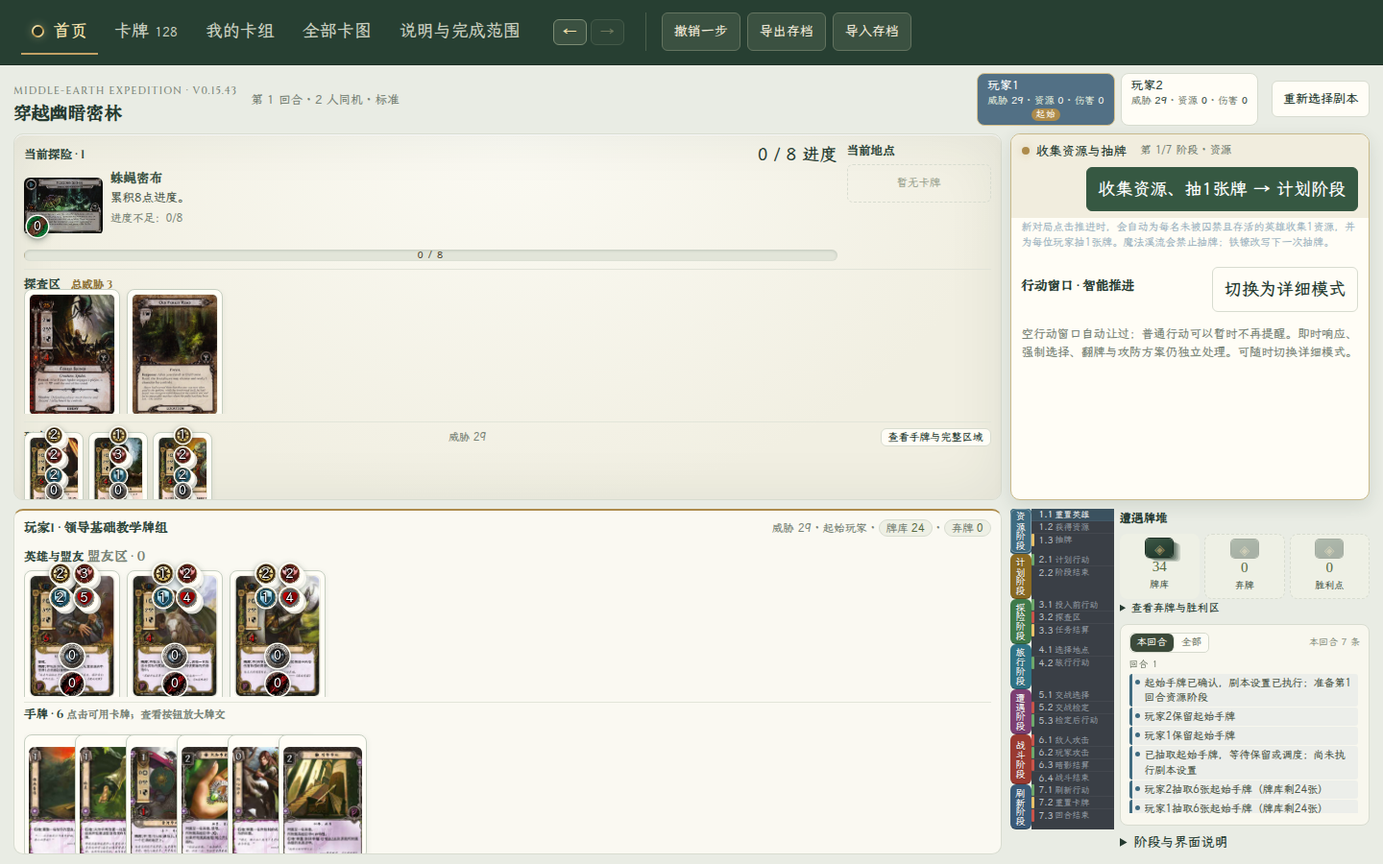
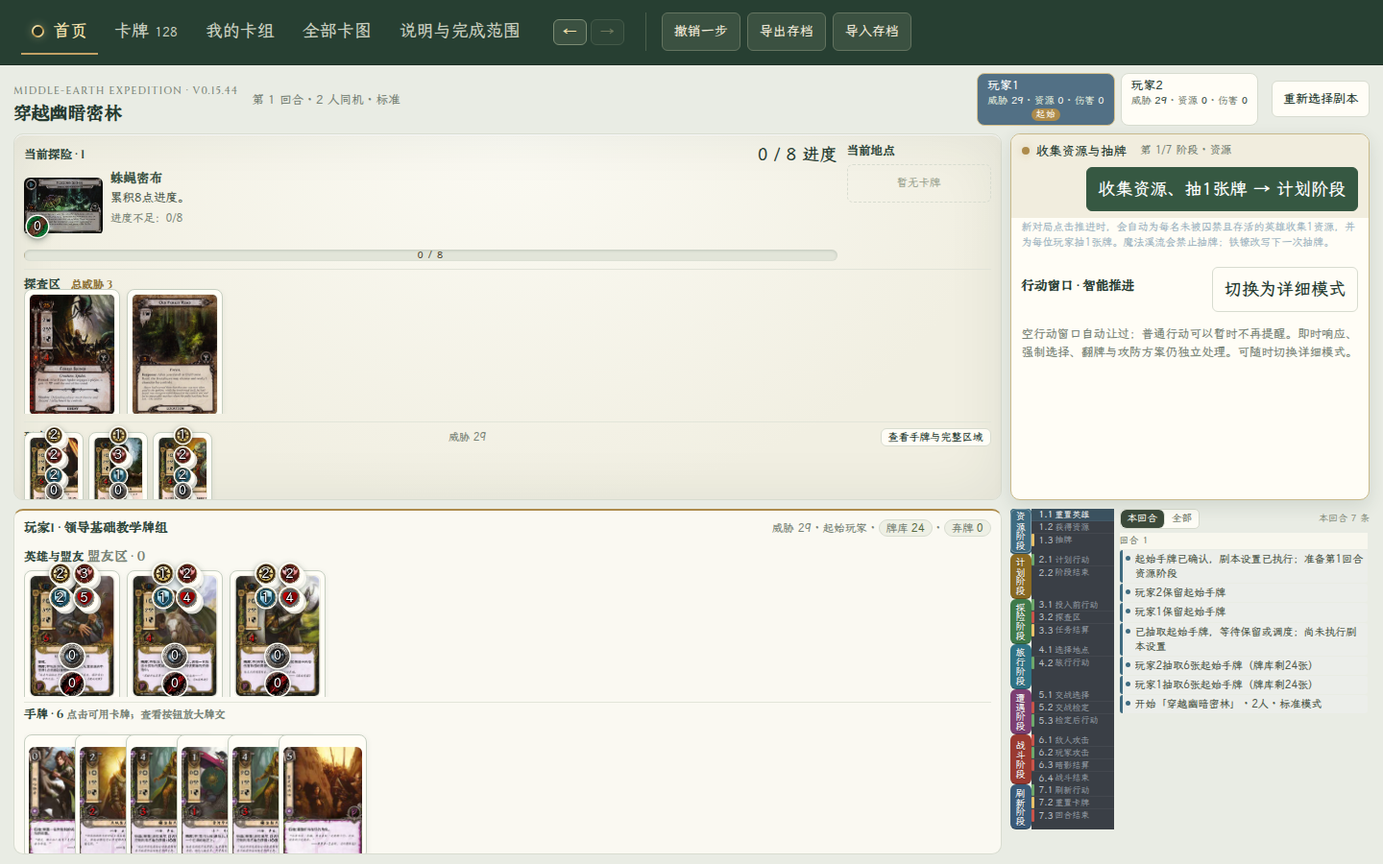
feat(rail): 右栏去框，只留阶段窗口竖轴与日志流（v0.15.45）
- desktop-ui: 移除牌堆栏（牌库/弃牌/胜利点计数与折叠）与「阶段与界面说明」框
- style: 日志面板去背景/边框/圆角/内边距，直接贴竖轴右侧
- tests: 断言 deck-rail 与说明框不再出现
- scripts: check-onescreen 的 deckRail 检查改指 .phase-rail-v；
  check-layout 右栏取样改为 .table-log 本身
- 验收: 67 测试、1920/1440/1366 check-layout 16/16、对比度 0 低对比

Changed region(s): [[0.8125, 0.5911, 1.0, 0.9956], [0.0312, 0.84, 0.2812, 0.9956], [0.1875, 0.0933, 0.2812, 0.1244]]

diff --git a/index.html b/index.html
@@ -559,9 +559,8 @@ body:has(.desktop-table) .player-tabs button{min-height:40px;padding:4px 10px;ga
  grid-template-rows:minmax(0,1fr)}
 .tabletop-rail>.phase-rail-v{
  grid-column:1;grid-row:1;min-height:0;height:100%;overflow:auto}
-.tabletop-rail>.rail-content{
- grid-column:2;grid-row:1;display:grid;gap:6px;min-height:0;min-width:0;overflow:hidden;
- grid-template-rows:auto minmax(0,1fr) auto}
+/* v0.15.45：牌堆栏与说明框移除，右栏只剩竖轴 + 日志两列，日志直接占第二列 */
+.tabletop-rail>.table-log{grid-column:2;grid-row:1;min-height:0;min-width:0}
 .public-table{padding:10px;gap:8px}
 
 /* ── 5. 牌桌：探险+地点同一行，探查区吃满剩余 ────────────────────── */
@@ -1193,7 +1192,7 @@ body:has(.desktop-table) .player-tabs button{min-height:40px;padding:4px 10px;ga
 /* 日志作为右栏第三块：直接占满剩余高度（不放 details 里，details 的内容高度会反过来撑高自身）。 */
 .tabletop-rail .table-log{
  flex:1 1 auto;display:flex;flex-direction:column;min-height:0;overflow:hidden;
- padding:8px 9px;border-radius:8px;background:#f8f7ee;border:1px solid #d8dcd0}
+ padding:0;border:0;border-radius:0;background:transparent}
 .table-log>.phase-log{flex:1 1 auto;min-height:0}
 
 @media(max-height:860px){
@@ -9422,7 +9421,7 @@ const WindowUI=(()=>{
 </script><script src="phase-log.js"></script><script>
 /* Tabletop view: UI drafts never pay, exhaust, reveal, or bypass phase validation. */
 /* 界面版本徽标唯一来源：须与 CHANGELOG.md 最新条目标题一致（planning-dom-tests 有校验）。 */
-const APP_VERSION='v0.15.44';
+const APP_VERSION='v0.15.45';
 const DesktopUI=(()=>{
  const E=ScenarioEngine,R=E.planning,Q=E.questing,C=E.combat,esc=x=>String(x??'').replace(/[&<>"']/g,c=>({'&':'&amp;','<':'&lt;','>':'&gt;','"':'&quot;',"'":'&#39;'}[c]));
  let combatDraft={key:'',target:null,ids:[]},draftState=null;
@@ -9551,11 +9550,7 @@ const DesktopUI=(()=>{
   /* 玩家状态条：BGA 式汇总每位玩家的威胁／资源／伤害，点按即切换查看（复用 view 动作）。 */
  const tabStats=o=>{const res=o.heroStates?o.heroStates.reduce((n,h)=>n+h.resources,0):0,dmg=o.heroStates?o.heroStates.reduce((n,h)=>n+(h.damage||0),0):0;
   return `<span class="tab-stats">威胁 <b>${o.threat}</b> · 资源 <b>${res}</b> · 伤害 <b>${dmg}</b></span>${s.first===o.id?'<span class="first-mark">起始</span>':''}${o.eliminated?'<span class="elim-mark">淘汰</span>':''}`;};
- return `<div class="desktop-table"><div class="expedition-title"><div><span class="eyebrow">MIDDLE-EARTH EXPEDITION · ${APP_VERSION}</span><h1>${esc(s.session&&s.session.name||sc.name)}</h1></div><span>${s.session&&s.session.name?esc(sc.name)+' · ':''}第 ${s.round} 回合 · ${s.players.length} 人同机${s.session&&s.session.difficulty?' · '+({easy:'简单',normal:'标准',nightmare:'噩梦'}[s.session.difficulty]||''):''}</span><div class="player-tabs" role="group" aria-label="查看玩家">${s.players.map(o=>`<button data-action="desktop" data-desktop="view" data-player="${o.id}" class="${o.id===p.id?'active':''}" aria-pressed="${o.id===p.id}"><b class="tab-name">${esc(o.name)}</b>${tabStats(o)}</button>`).join('')}</div>${b('重新选择剧本','reset')}</div><div class="tabletop-layout"><div class="tabletop-main"><div class="operation-dock" role="region" aria-label="当前操作"><div class="operation-title"><span class="operation-indicator"></span><strong>${esc(prompt(s,m))}</strong><div class="operation-chips">${status(s)?.chips||''}</div><span class="small">第 ${s.phase+1}/7 阶段 · ${E.phases[s.phase]}</span>${next(s)}</div><p class="small phase-hint">${esc(phaseHint())}</p><div class="operation-content">${scorePanel(s)}${PlayerUI.openingPanel(s)}${setupPanel(s)}${s.pending.length?pending():''}${phasePanel(s,p.id,m)}${WindowUI.panel(s)}</div></div><div class="public-table"><div class="quest-location-row"><section class="table-zone quest-zone"><div class="zone-heading"><h2>当前探险 · ${esc(q.stage)}</h2><strong>${q.points?s.progress+' / '+q.points+' 进度':'特殊胜利条件'}</strong></div><div class="quest-display"><div class="quest-art-wrap">${ImageLibrary.art('enc-'+q.id,'',s.setupPending?'A':'B')}${q.points?`<div class="card-tokens quest-tokens" aria-hidden="true">${tk('progress',s.progress)}</div>`:''}</div><div><h3>${esc(q.name)}</h3><p>${esc(s.setupPending?q.front:q.back)}</p><span class="small muted">${esc(E.gate(s)||'满足条件后由规则自动推进')}</span></div></div>${q.points?`<div class="quest-progress" role="progressbar" aria-label="探险进度" aria-valuemin="0" aria-valuemax="${q.points}" aria-valuenow="${s.progress}"><div class="quest-progress-fill" style="width:${Math.min(100,Math.round(s.progress/q.points*100))}%"></div><span class="quest-progress-label">${s.progress} / ${q.points}</span></div>`:''}</section>${row('当前地点',s.active?encounter(s,s.active,'active',m):'','active-zone')}</div>${row('探查区 <span class="threat-total">总威胁 '+E.threat(s)+'</span>',s.staging.map(c=>encounter(s,c,'staging',m)).join(''))}${s.objectives.length?row('剧本目标',s.objectives.map(c=>encounter(s,c,'objective',m)).join('')):''}${others}</div><section class="player-mat"><div class="zone-heading"><h2>${esc(p.name)} · ${esc(p.registeredDeck?.name||'玩家区域')}</h2><span class="own-piles">威胁 ${p.threat}${s.first===p.id?' · 起始玩家':''} · <span class="pile-chip">牌库 <b>${p.playerDeck.length}</b></span> · <span class="pile-chip">弃牌 <b>${p.playerDiscard.length}</b></span></span></div>${row('英雄与盟友 <span class="small muted">盟友区 · '+p.allies.length+'</span>',playerChars(s,p).map(c=>character(s,c,m)).join(''),'own-characters')}${p.attachments.length?row('附属',p.attachments.map(c=>{const meta=R.data(s,c),host=R.find(s,c.target),legal=R.abilitySpec(s,p.id,c.uid).legal;return `<article class="table-card"><button class="card-face" data-action="planning" data-plan="ability" data-player="${p.id}" data-uid="${c.uid}" ${legal?'':'disabled'}>${art(c.code)}</button><div class="table-card-caption"><b>${esc(meta.nameZh)}</b><span>附于 ${esc(host?.meta.nameZh||host?.meta.name||'目标已离场')}</span></div>${inspect(c.code)}</article>`;}).join('')):''}${p.engaged.length?row('交战区',p.engaged.map(c=>encounter(s,c,'engaged',m)).join('')):''}${row('手牌 · '+p.hand.length+' <span class="small muted">点击可用卡牌；查看按钮放大牌文</span>',hand,'hand-zone')}<p class="small muted">同机模式可切换查看每位玩家手牌；不提供联网私密手牌。</p></section></div><aside class="tabletop-rail">${PhaseLog.rail(s,railOpen())}<div class="rail-content"><section class="deck-rail"><h2>遭遇牌堆</h2><div class="deck-counts">
-<div class="pile ${s.deck.length?'':'empty'}"><span class="pile-cards" aria-hidden="true"></span><strong>${s.deck.length}</strong><small>牌库</small></div>
-<div class="pile discard ${s.discard.length?'':'empty'}"><span class="pile-cards" aria-hidden="true"></span><strong>${s.discard.length}</strong><small>弃牌</small></div>
-<div class="pile victory ${s.victory.length?'':'empty'}"><span class="pile-cards" aria-hidden="true"></span><strong>${s.victory.reduce((n,c)=>n+(c.victory||0),0)}</strong><small>胜利点</small></div>
-</div><details><summary>查看弃牌与胜利区</summary><p>${esc(s.discard.map(c=>c.name).join('、')||'空')}</p><p>${esc(s.victory.map(c=>c.name).join('、')||'空')}</p></details></section>${s.conditions.length?`<section><h2>持续条件</h2>${s.conditions.map(c=>`<p>${esc(c.name)} · ${esc(R.find(s,c.target)?.meta.nameZh||'玩家'+((c.targetPlayer??0)+1))}</p>`).join('')}</section>`:''}<section class="table-log" aria-label="远征日志">${PhaseLog.panel(s,logMarks(),logScope(),railOpen(),false)}</section><details><summary>阶段与界面说明</summary><p>蓝色边框表示可操作，金色边框表示暂定已选。桌面点选不执行效果；确认后仍需全员核对。已翻开信息无法收回。</p></details></div></aside></div></div>`;
+ return `<div class="desktop-table"><div class="expedition-title"><div><span class="eyebrow">MIDDLE-EARTH EXPEDITION · ${APP_VERSION}</span><h1>${esc(s.session&&s.session.name||sc.name)}</h1></div><span>${s.session&&s.session.name?esc(sc.name)+' · ':''}第 ${s.round} 回合 · ${s.players.length} 人同机${s.session&&s.session.difficulty?' · '+({easy:'简单',normal:'标准',nightmare:'噩梦'}[s.session.difficulty]||''):''}</span><div class="player-tabs" role="group" aria-label="查看玩家">${s.players.map(o=>`<button data-action="desktop" data-desktop="view" data-player="${o.id}" class="${o.id===p.id?'active':''}" aria-pressed="${o.id===p.id}"><b class="tab-name">${esc(o.name)}</b>${tabStats(o)}</button>`).join('')}</div>${b('重新选择剧本','reset')}</div><div class="tabletop-layout"><div class="tabletop-main"><div class="operation-dock" role="region" aria-label="当前操作"><div class="operation-title"><span class="operation-indicator"></span><strong>${esc(prompt(s,m))}</strong><div class="operation-chips">${status(s)?.chips||''}</div><span class="small">第 ${s.phase+1}/7 阶段 · ${E.phases[s.phase]}</span>${next(s)}</div><p class="small phase-hint">${esc(phaseHint())}</p><div class="operation-content">${scorePanel(s)}${PlayerUI.openingPanel(s)}${setupPanel(s)}${s.pending.length?pending():''}${phasePanel(s,p.id,m)}${WindowUI.panel(s)}</div></div><div class="public-table"><div class="quest-location-row"><section class="table-zone quest-zone"><div class="zone-heading"><h2>当前探险 · ${esc(q.stage)}</h2><strong>${q.points?s.progress+' / '+q.points+' 进度':'特殊胜利条件'}</strong></div><div class="quest-display"><div class="quest-art-wrap">${ImageLibrary.art('enc-'+q.id,'',s.setupPending?'A':'B')}${q.points?`<div class="card-tokens quest-tokens" aria-hidden="true">${tk('progress',s.progress)}</div>`:''}</div><div><h3>${esc(q.name)}</h3><p>${esc(s.setupPending?q.front:q.back)}</p><span class="small muted">${esc(E.gate(s)||'满足条件后由规则自动推进')}</span></div></div>${q.points?`<div class="quest-progress" role="progressbar" aria-label="探险进度" aria-valuemin="0" aria-valuemax="${q.points}" aria-valuenow="${s.progress}"><div class="quest-progress-fill" style="width:${Math.min(100,Math.round(s.progress/q.points*100))}%"></div><span class="quest-progress-label">${s.progress} / ${q.points}</span></div>`:''}</section>${row('当前地点',s.active?encounter(s,s.active,'active',m):'','active-zone')}</div>${row('探查区 <span class="threat-total">总威胁 '+E.threat(s)+'</span>',s.staging.map(c=>encounter(s,c,'staging',m)).join(''))}${s.objectives.length?row('剧本目标',s.objectives.map(c=>encounter(s,c,'objective',m)).join('')):''}${others}</div><section class="player-mat"><div class="zone-heading"><h2>${esc(p.name)} · ${esc(p.registeredDeck?.name||'玩家区域')}</h2><span class="own-piles">威胁 ${p.threat}${s.first===p.id?' · 起始玩家':''} · <span class="pile-chip">牌库 <b>${p.playerDeck.length}</b></span> · <span class="pile-chip">弃牌 <b>${p.playerDiscard.length}</b></span></span></div>${row('英雄与盟友 <span class="small muted">盟友区 · '+p.allies.length+'</span>',playerChars(s,p).map(c=>character(s,c,m)).join(''),'own-characters')}${p.attachments.length?row('附属',p.attachments.map(c=>{const meta=R.data(s,c),host=R.find(s,c.target),legal=R.abilitySpec(s,p.id,c.uid).legal;return `<article class="table-card"><button class="card-face" data-action="planning" data-plan="ability" data-player="${p.id}" data-uid="${c.uid}" ${legal?'':'disabled'}>${art(c.code)}</button><div class="table-card-caption"><b>${esc(meta.nameZh)}</b><span>附于 ${esc(host?.meta.nameZh||host?.meta.name||'目标已离场')}</span></div>${inspect(c.code)}</article>`;}).join('')):''}${p.engaged.length?row('交战区',p.engaged.map(c=>encounter(s,c,'engaged',m)).join('')):''}${row('手牌 · '+p.hand.length+' <span class="small muted">点击可用卡牌；查看按钮放大牌文</span>',hand,'hand-zone')}<p class="small muted">同机模式可切换查看每位玩家手牌；不提供联网私密手牌。</p></section></div><aside class="tabletop-rail">${PhaseLog.rail(s,railOpen())}<section class="table-log" aria-label="远征日志">${PhaseLog.panel(s,logMarks(),logScope(),railOpen(),false)}</section></aside></div></div>`;
  }
  function handle(el){const k=el.dataset.desktop,uid=+el.dataset.uid,pid=+el.dataset.player,m=mode(state,handView),d=draft(state,m);
   if(k==='view'){handView=pid;render();return;}if(k==='reset'){if(confirm('结束当前桌面并重新选择剧本？建议先导出存档。'))mutate(()=>state=null);return;}

diff --git a/desktop-ui.js b/desktop-ui.js
@@ -1,6 +1,6 @@
 /* Tabletop view: UI drafts never pay, exhaust, reveal, or bypass phase validation. */
 /* 界面版本徽标唯一来源：须与 CHANGELOG.md 最新条目标题一致（planning-dom-tests 有校验）。 */
-const APP_VERSION='v0.15.44';
+const APP_VERSION='v0.15.45';
 const DesktopUI=(()=>{
  const E=ScenarioEngine,R=E.planning,Q=E.questing,C=E.combat,esc=x=>String(x??'').replace(/[&<>"']/g,c=>({'&':'&amp;','<':'&lt;','>':'&gt;','"':'&quot;',"'":'&#39;'}[c]));
  let combatDraft={key:'',target:null,ids:[]},draftState=null;
@@ -129,11 +129,7 @@ const DesktopUI=(()=>{
   /* 玩家状态条：BGA 式汇总每位玩家的威胁／资源／伤害，点按即切换查看（复用 view 动作）。 */
  const tabStats=o=>{const res=o.heroStates?o.heroStates.reduce((n,h)=>n+h.resources,0):0,dmg=o.heroStates?o.heroStates.reduce((n,h)=>n+(h.damage||0),0):0;
   return `<span class="tab-stats">威胁 <b>${o.threat}</b> · 资源 <b>${res}</b> · 伤害 <b>${dmg}</b></span>${s.first===o.id?'<span class="first-mark">起始</span>':''}${o.eliminated?'<span class="elim-mark">淘汰</span>':''}`;};
- return `<div class="desktop-table"><div class="expedition-title"><div><span class="eyebrow">MIDDLE-EARTH EXPEDITION · ${APP_VERSION}</span><h1>${esc(s.session&&s.session.name||sc.name)}</h1></div><span>${s.session&&s.session.name?esc(sc.name)+' · ':''}第 ${s.round} 回合 · ${s.players.length} 人同机${s.session&&s.session.difficulty?' · '+({easy:'简单',normal:'标准',nightmare:'噩梦'}[s.session.difficulty]||''):''}</span><div class="player-tabs" role="group" aria-label="查看玩家">${s.players.map(o=>`<button data-action="desktop" data-desktop="view" data-player="${o.id}" class="${o.id===p.id?'active':''}" aria-pressed="${o.id===p.id}"><b class="tab-name">${esc(o.name)}</b>${tabStats(o)}</button>`).join('')}</div>${b('重新选择剧本','reset')}</div><div class="tabletop-layout"><div class="tabletop-main"><div class="operation-dock" role="region" aria-label="当前操作"><div class="operation-title"><span class="operation-indicator"></span><strong>${esc(prompt(s,m))}</strong><div class="operation-chips">${status(s)?.chips||''}</div><span class="small">第 ${s.phase+1}/7 阶段 · ${E.phases[s.phase]}</span>${next(s)}</div><p class="small phase-hint">${esc(phaseHint())}</p><div class="operation-content">${scorePanel(s)}${PlayerUI.openingPanel(s)}${setupPanel(s)}${s.pending.length?pending():''}${phasePanel(s,p.id,m)}${WindowUI.panel(s)}</div></div><div class="public-table"><div class="quest-location-row"><section class="table-zone quest-zone"><div class="zone-heading"><h2>当前探险 · ${esc(q.stage)}</h2><strong>${q.points?s.progress+' / '+q.points+' 进度':'特殊胜利条件'}</strong></div><div class="quest-display"><div class="quest-art-wrap">${ImageLibrary.art('enc-'+q.id,'',s.setupPending?'A':'B')}${q.points?`<div class="card-tokens quest-tokens" aria-hidden="true">${tk('progress',s.progress)}</div>`:''}</div><div><h3>${esc(q.name)}</h3><p>${esc(s.setupPending?q.front:q.back)}</p><span class="small muted">${esc(E.gate(s)||'满足条件后由规则自动推进')}</span></div></div>${q.points?`<div class="quest-progress" role="progressbar" aria-label="探险进度" aria-valuemin="0" aria-valuemax="${q.points}" aria-valuenow="${s.progress}"><div class="quest-progress-fill" style="width:${Math.min(100,Math.round(s.progress/q.points*100))}%"></div><span class="quest-progress-label">${s.progress} / ${q.points}</span></div>`:''}</section>${row('当前地点',s.active?encounter(s,s.active,'active',m):'','active-zone')}</div>${row('探查区 <span class="threat-total">总威胁 '+E.threat(s)+'</span>',s.staging.map(c=>encounter(s,c,'staging',m)).join(''))}${s.objectives.length?row('剧本目标',s.objectives.map(c=>encounter(s,c,'objective',m)).join('')):''}${others}</div><section class="player-mat"><div class="zone-heading"><h2>${esc(p.name)} · ${esc(p.registeredDeck?.name||'玩家区域')}</h2><span class="own-piles">威胁 ${p.threat}${s.first===p.id?' · 起始玩家':''} · <span class="pile-chip">牌库 <b>${p.playerDeck.length}</b></span> · <span class="pile-chip">弃牌 <b>${p.playerDiscard.length}</b></span></span></div>${row('英雄与盟友 <span class="small muted">盟友区 · '+p.allies.length+'</span>',playerChars(s,p).map(c=>character(s,c,m)).join(''),'own-characters')}${p.attachments.length?row('附属',p.attachments.map(c=>{const meta=R.data(s,c),host=R.find(s,c.target),legal=R.abilitySpec(s,p.id,c.uid).legal;return `<article class="table-card"><button class="card-face" data-action="planning" data-plan="ability" data-player="${p.id}" data-uid="${c.uid}" ${legal?'':'disabled'}>${art(c.code)}</button><div class="table-card-caption"><b>${esc(meta.nameZh)}</b><span>附于 ${esc(host?.meta.nameZh||host?.meta.name||'目标已离场')}</span></div>${inspect(c.code)}</article>`;}).join('')):''}${p.engaged.length?row('交战区',p.engaged.map(c=>encounter(s,c,'engaged',m)).join('')):''}${row('手牌 · '+p.hand.length+' <span class="small muted">点击可用卡牌；查看按钮放大牌文</span>',hand,'hand-zone')}<p class="small muted">同机模式可切换查看每位玩家手牌；不提供联网私密手牌。</p></section></div><aside class="tabletop-rail">${PhaseLog.rail(s,railOpen())}<div class="rail-content"><section class="deck-rail"><h2>遭遇牌堆</h2><div class="deck-counts">
-<div class="pile ${s.deck.length?'':'empty'}"><span class="pile-cards" aria-hidden="true"></span><strong>${s.deck.length}</strong><small>牌库</small></div>
-<div class="pile discard ${s.discard.length?'':'empty'}"><span class="pile-cards" aria-hidden="true"></span><strong>${s.discard.length}</strong><small>弃牌</small></div>
-<div class="pile victory ${s.victory.length?'':'empty'}"><span class="pile-cards" aria-hidden="true"></span><strong>${s.victory.reduce((n,c)=>n+(c.victory||0),0)}</strong><small>胜利点</small></div>
-</div><details><summary>查看弃牌与胜利区</summary><p>${esc(s.discard.map(c=>c.name).join('、')||'空')}</p><p>${esc(s.victory.map(c=>c.name).join('、')||'空')}</p></details></section>${s.conditions.length?`<section><h2>持续条件</h2>${s.conditions.map(c=>`<p>${esc(c.name)} · ${esc(R.find(s,c.target)?.meta.nameZh||'玩家'+((c.targetPlayer??0)+1))}</p>`).join('')}</section>`:''}<section class="table-log" aria-label="远征日志">${PhaseLog.panel(s,logMarks(),logScope(),railOpen(),false)}</section><details><summary>阶段与界面说明</summary><p>蓝色边框表示可操作，金色边框表示暂定已选。桌面点选不执行效果；确认后仍需全员核对。已翻开信息无法收回。</p></details></div></aside></div></div>`;
+ return `<div class="desktop-table"><div class="expedition-title"><div><span class="eyebrow">MIDDLE-EARTH EXPEDITION · ${APP_VERSION}</span><h1>${esc(s.session&&s.session.name||sc.name)}</h1></div><span>${s.session&&s.session.name?esc(sc.name)+' · ':''}第 ${s.round} 回合 · ${s.players.length} 人同机${s.session&&s.session.difficulty?' · '+({easy:'简单',normal:'标准',nightmare:'噩梦'}[s.session.difficulty]||''):''}</span><div class="player-tabs" role="group" aria-label="查看玩家">${s.players.map(o=>`<button data-action="desktop" data-desktop="view" data-player="${o.id}" class="${o.id===p.id?'active':''}" aria-pressed="${o.id===p.id}"><b class="tab-name">${esc(o.name)}</b>${tabStats(o)}</button>`).join('')}</div>${b('重新选择剧本','reset')}</div><div class="tabletop-layout"><div class="tabletop-main"><div class="operation-dock" role="region" aria-label="当前操作"><div class="operation-title"><span class="operation-indicator"></span><strong>${esc(prompt(s,m))}</strong><div class="operation-chips">${status(s)?.chips||''}</div><span class="small">第 ${s.phase+1}/7 阶段 · ${E.phases[s.phase]}</span>${next(s)}</div><p class="small phase-hint">${esc(phaseHint())}</p><div class="operation-content">${scorePanel(s)}${PlayerUI.openingPanel(s)}${setupPanel(s)}${s.pending.length?pending():''}${phasePanel(s,p.id,m)}${WindowUI.panel(s)}</div></div><div class="public-table"><div class="quest-location-row"><section class="table-zone quest-zone"><div class="zone-heading"><h2>当前探险 · ${esc(q.stage)}</h2><strong>${q.points?s.progress+' / '+q.points+' 进度':'特殊胜利条件'}</strong></div><div class="quest-display"><div class="quest-art-wrap">${ImageLibrary.art('enc-'+q.id,'',s.setupPending?'A':'B')}${q.points?`<div class="card-tokens quest-tokens" aria-hidden="true">${tk('progress',s.progress)}</div>`:''}</div><div><h3>${esc(q.name)}</h3><p>${esc(s.setupPending?q.front:q.back)}</p><span class="small muted">${esc(E.gate(s)||'满足条件后由规则自动推进')}</span></div></div>${q.points?`<div class="quest-progress" role="progressbar" aria-label="探险进度" aria-valuemin="0" aria-valuemax="${q.points}" aria-valuenow="${s.progress}"><div class="quest-progress-fill" style="width:${Math.min(100,Math.round(s.progress/q.points*100))}%"></div><span class="quest-progress-label">${s.progress} / ${q.points}</span></div>`:''}</section>${row('当前地点',s.active?encounter(s,s.active,'active',m):'','active-zone')}</div>${row('探查区 <span class="threat-total">总威胁 '+E.threat(s)+'</span>',s.staging.map(c=>encounter(s,c,'staging',m)).join(''))}${s.objectives.length?row('剧本目标',s.objectives.map(c=>encounter(s,c,'objective',m)).join('')):''}${others}</div><section class="player-mat"><div class="zone-heading"><h2>${esc(p.name)} · ${esc(p.registeredDeck?.name||'玩家区域')}</h2><span class="own-piles">威胁 ${p.threat}${s.first===p.id?' · 起始玩家':''} · <span class="pile-chip">牌库 <b>${p.playerDeck.length}</b></span> · <span class="pile-chip">弃牌 <b>${p.playerDiscard.length}</b></span></span></div>${row('英雄与盟友 <span class="small muted">盟友区 · '+p.allies.length+'</span>',playerChars(s,p).map(c=>character(s,c,m)).join(''),'own-characters')}${p.attachments.length?row('附属',p.attachments.map(c=>{const meta=R.data(s,c),host=R.find(s,c.target),legal=R.abilitySpec(s,p.id,c.uid).legal;return `<article class="table-card"><button class="card-face" data-action="planning" data-plan="ability" data-player="${p.id}" data-uid="${c.uid}" ${legal?'':'disabled'}>${art(c.code)}</button><div class="table-card-caption"><b>${esc(meta.nameZh)}</b><span>附于 ${esc(host?.meta.nameZh||host?.meta.name||'目标已离场')}</span></div>${inspect(c.code)}</article>`;}).join('')):''}${p.engaged.length?row('交战区',p.engaged.map(c=>encounter(s,c,'engaged',m)).join('')):''}${row('手牌 · '+p.hand.length+' <span class="small muted">点击可用卡牌；查看按钮放大牌文</span>',hand,'hand-zone')}<p class="small muted">同机模式可切换查看每位玩家手牌；不提供联网私密手牌。</p></section></div><aside class="tabletop-rail">${PhaseLog.rail(s,railOpen())}<section class="table-log" aria-label="远征日志">${PhaseLog.panel(s,logMarks(),logScope(),railOpen(),false)}</section></aside></div></div>`;
  }
  function handle(el){const k=el.dataset.desktop,uid=+el.dataset.uid,pid=+el.dataset.player,m=mode(state,handView),d=draft(state,m);
   if(k==='view'){handView=pid;render();return;}if(k==='reset'){if(confirm('结束当前桌面并重新选择剧本？建议先导出存档。'))mutate(()=>state=null);return;}

diff --git a/style.css b/style.css
@@ -557,9 +557,8 @@ body:has(.desktop-table) .player-tabs button{min-height:40px;padding:4px 10px;ga
  grid-template-rows:minmax(0,1fr)}
 .tabletop-rail>.phase-rail-v{
  grid-column:1;grid-row:1;min-height:0;height:100%;overflow:auto}
-.tabletop-rail>.rail-content{
- grid-column:2;grid-row:1;display:grid;gap:6px;min-height:0;min-width:0;overflow:hidden;
- grid-template-rows:auto minmax(0,1fr) auto}
+/* v0.15.45：牌堆栏与说明框移除，右栏只剩竖轴 + 日志两列，日志直接占第二列 */
+.tabletop-rail>.table-log{grid-column:2;grid-row:1;min-height:0;min-width:0}
 .public-table{padding:10px;gap:8px}
 
 /* ── 5. 牌桌：探险+地点同一行，探查区吃满剩余 ────────────────────── */
@@ -1191,7 +1190,7 @@ body:has(.desktop-table) .player-tabs button{min-height:40px;padding:4px 10px;ga
 /* 日志作为右栏第三块：直接占满剩余高度（不放 details 里，details 的内容高度会反过来撑高自身）。 */
 .tabletop-rail .table-log{
  flex:1 1 auto;display:flex;flex-direction:column;min-height:0;overflow:hidden;
- padding:8px 9px;border-radius:8px;background:#f8f7ee;border:1px solid #d8dcd0}
+ padding:0;border:0;border-radius:0;background:transparent}
 .table-log>.phase-log{flex:1 1 auto;min-height:0}
 
 @media(max-height:860px){

diff --git a/CHANGELOG.md b/CHANGELOG.md
@@ -1,3 +1,10 @@
+# v0.15.45 · 右栏去框：只留阶段窗口竖轴与日志流（2026-10-24）
+
+- **移除牌堆栏**：`遭遇牌堆 / 弃牌 / 胜利点` 计数框与「查看弃牌与胜利区」折叠整块删除。牌库/弃牌数量在玩家区标题行仍有（每人自己的），胜利点在终局计分面板完整可查。
+- **移除「阶段与界面说明」折叠框**：操作提示文案已并入各阶段面板，独立说明框属于冗余。
+- **日志去框**：`.table-log` 的背景、边框、圆角、内边距全部移除，日志流直接贴在竖轴右侧；右栏现在只有「阶段窗口竖轴 + 日志流」两个内容，无任何容器框体。
+- 验收：67 项测试全绿（新增「牌堆栏/说明框不得再出现」断言）；check-layout 16/16（1920/1440/1366）、check-taskbar 23/23、check-contrast 0 低对比、check-score 19/19、check-onescreen 五区可见（deckRail 检查项改为 phaseWin）。
+
 # v0.15.44 · 移除操作面板的横排阶段胶囊，高度让给右侧竖轴（2026-10-24）
 
 - **删掉重复的阶段指示**：操作面板顶部那排 `01 资源 当前 / 02 计划 / … / 07 刷新` 胶囊已移除。它与右侧竖轴表达同一件事（当前在第几阶段），但竖轴还多了窗口编号与触发时机，胶囊纯属冗余，还占掉约 30px 高度。
